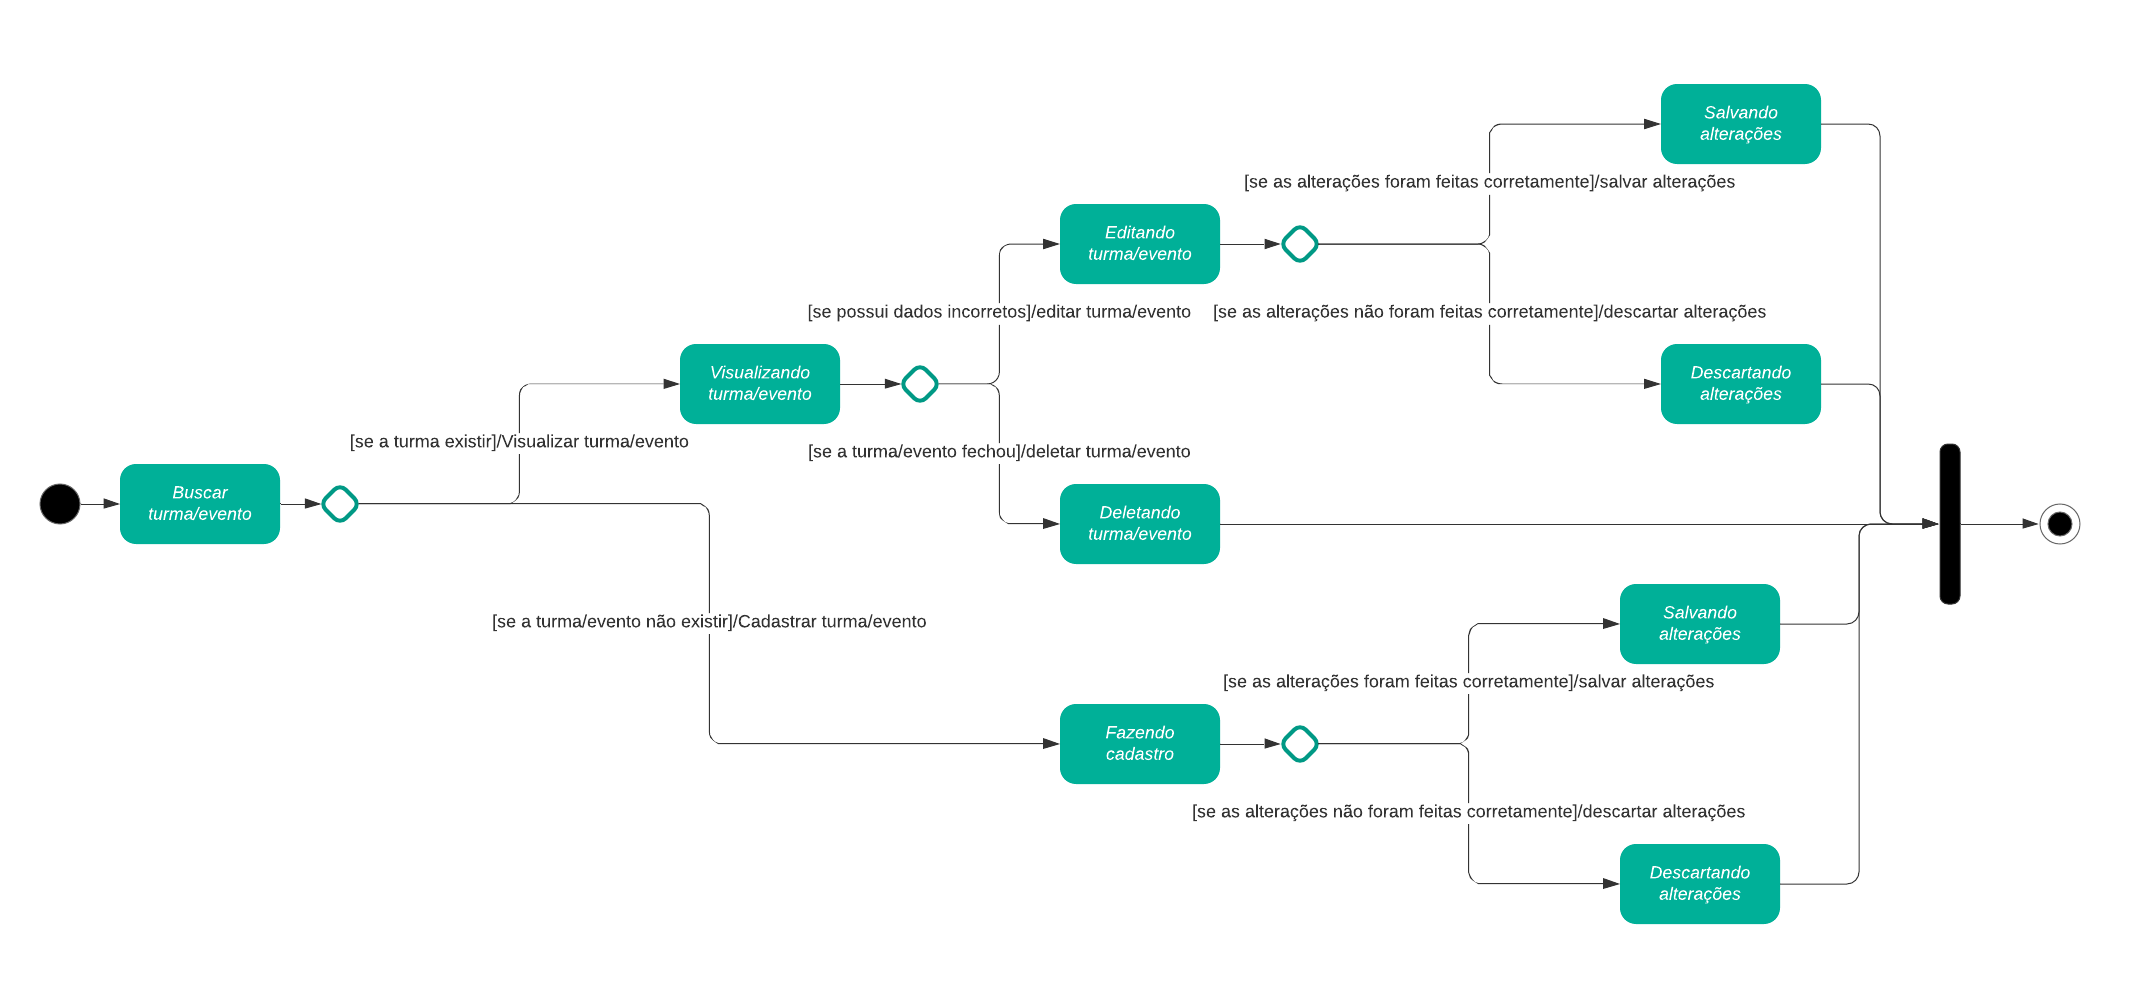
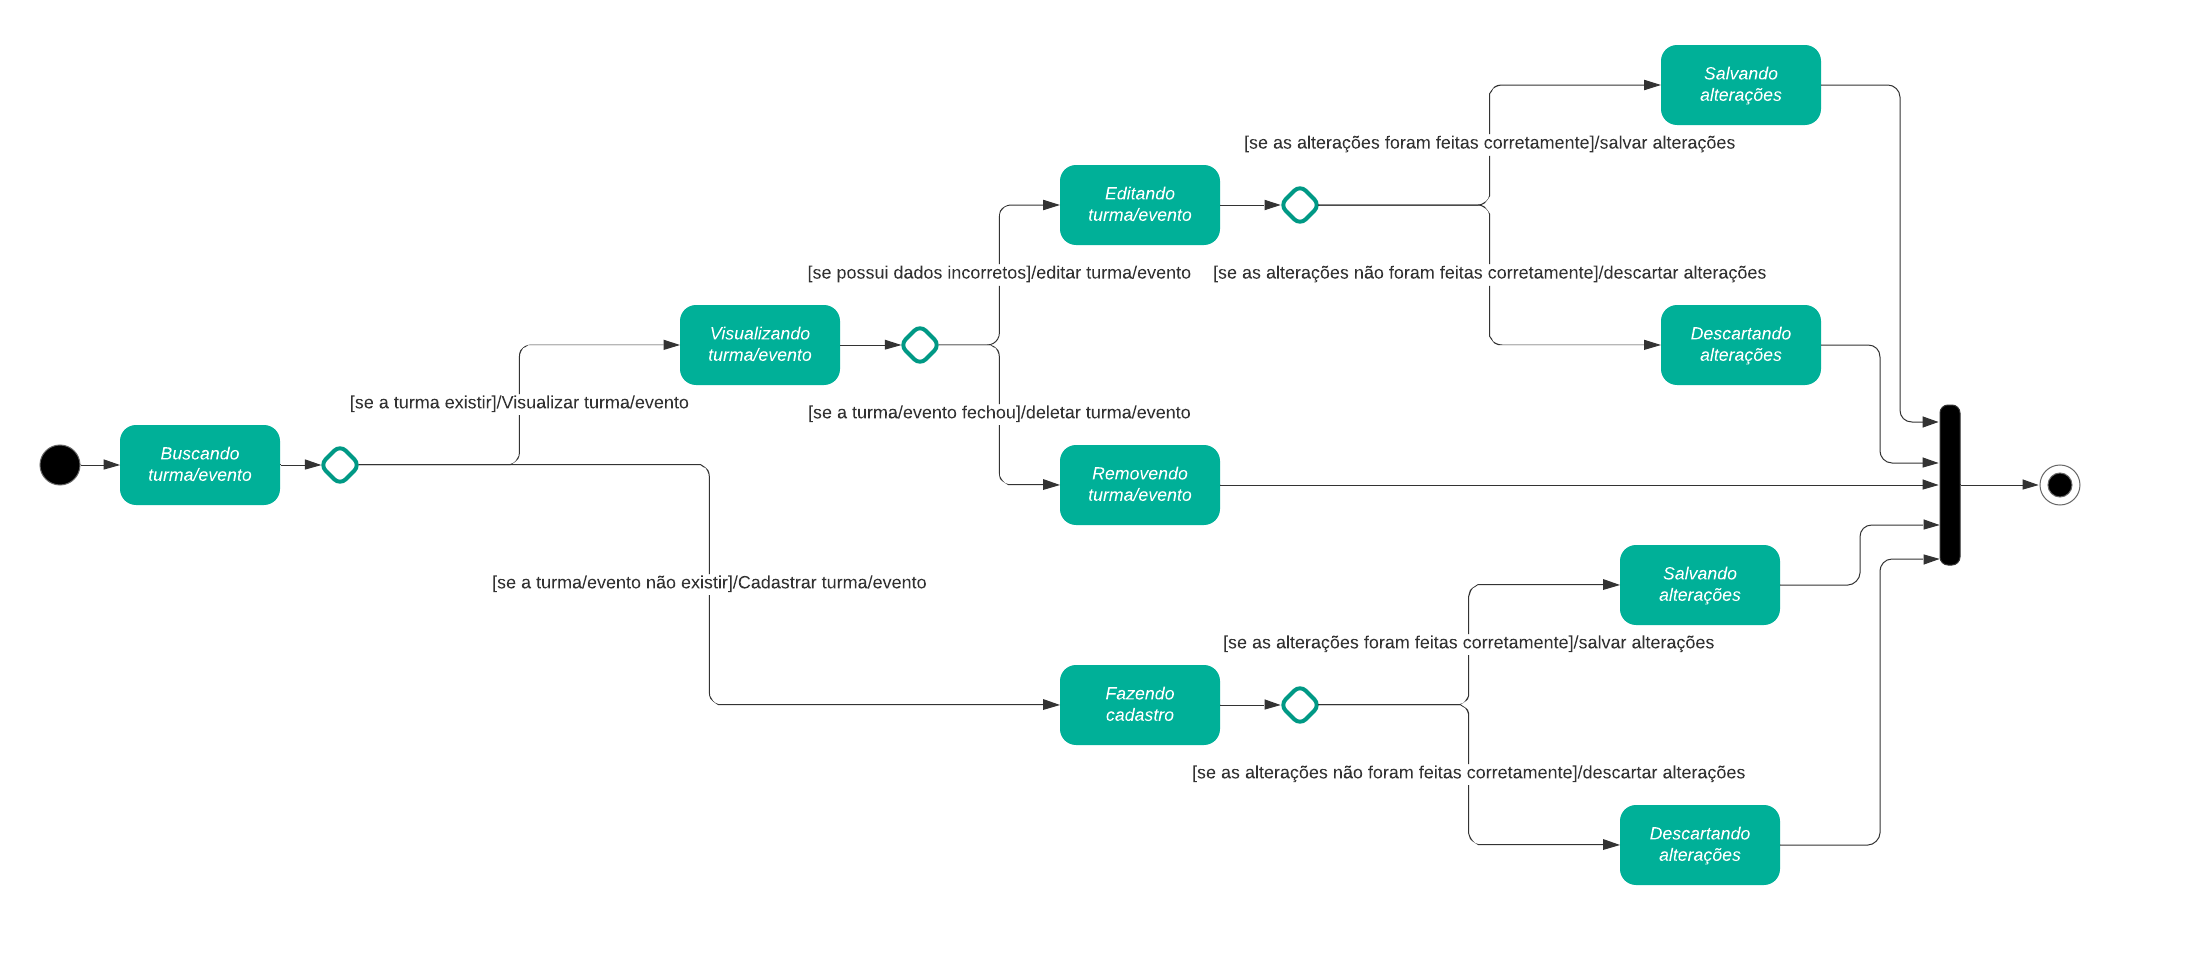
doc(#154) Ajustes segundo feedback da professora

Changed region(s): [[0.0, 0.0309, 0.9897, 0.6186], [0.4639, 0.5567, 0.866, 0.9588], [0.2165, 0.5876, 0.433, 0.6495]]

diff --git a/docs/modelagem/modelagem-dinamica/diagrama-estados.md b/docs/modelagem/modelagem-dinamica/diagrama-estados.md
@@ -21,11 +21,15 @@
 
 #### Realização do cadastro de [crianças](../../../base/requisitos/modelagem/lexicos/#lexico-crianca) e [professores](../../../base/requisitos/modelagem/lexicos/#lexico-professor)
 ![Cadastro de crianças e professores](../../../assets/imagens/diagrama-estados/cadastro-crianca-professor.png)
-<center>[Figura 2: Cadastro de crianças e professores](../../../assets/imagens/diagrama-estados/cadastro-crianca-professor.png)</center>
+<center>[Figura 2: Cadastro de crianças e professores](../../../assets/imagens/diagrama-estados/cadastro-crianca-professor.png)</center><br>
+&emsp;&emsp;No diagrama 2 foram retratados os estados durante a realização de um cadastro de criança ou professor por um administrador.<br>
+&emsp;&emsp;O diagrama se inicia no estado de "buscando aluno/professor", um vez que se deseja evitar a duplicação de cadastros, seguindo para dois estados possíveis, um em que o usuário já existe, então a tarefa é encerrada e outro em que são exigidos os dados do novo usuário, por fim o caminho se ramifica entre os estados de descartar o cadastro ou salvar os dados preenchidos.<br>
 
 #### Realização do gerenciamento de [turmas](../../../base/requisitos/modelagem/lexicos/#lexico-turma)
 ![Gerenciamento de turmas](../../../assets/imagens/diagrama-estados/gerencia-turma.png)
-<center>[Figura 3: Gerenciamento de turmas](../../../assets/imagens/diagrama-estados/gerencia-turma.png)</center>
+<center>[Figura 3: Gerenciamento de turmas](../../../assets/imagens/diagrama-estados/gerencia-turma.png)</center><br>
+&emsp;&emsp;No diagrama 3 foram retratados os estados durante a realização do gerenciamento de turmas.<br>
+&emsp;&emsp;O processo se inicia na busca pela turma ou evento, se ramificando em cadastrar nova turma/evento caso não exista, ou visualizar a turma/evento caso exista, sendo possível entrar em dois outros estados, o de editar a turma/evento ou deletar a turma/evento, sendo então nos estados de editar e cadastrar turma/evento a possibilidade de dois estado, o de salvar ou o descartar a criação/edição, sendo por fim finalizada a atividade.<br>
 
 #### [Lançamento de presenças](../../../base/requisitos/modelagem/lexicos/#lexico-lancar-presenca)
 ![Lançamento de presenças](../../../assets/imagens/diagrama-estados/lancamento-presenca.png)
@@ -41,3 +45,4 @@
 |1.0| 18/08/2021 | Adição da introduçao, da metodologia, dos diagramas e da bibliografia  | Nilo Mendonça |
 |1.1| 21/08/2021 | Adição da léxicos  | Bruno Félix |
 |1.2| 21/08/2021 | Revisão por pares  | Enzo Gabriel e Gabriel Bonifácio |
+|1.3| 18/09/2021 | Revisão do documento segundo feedback da professora  | Nilo Mendonça |
